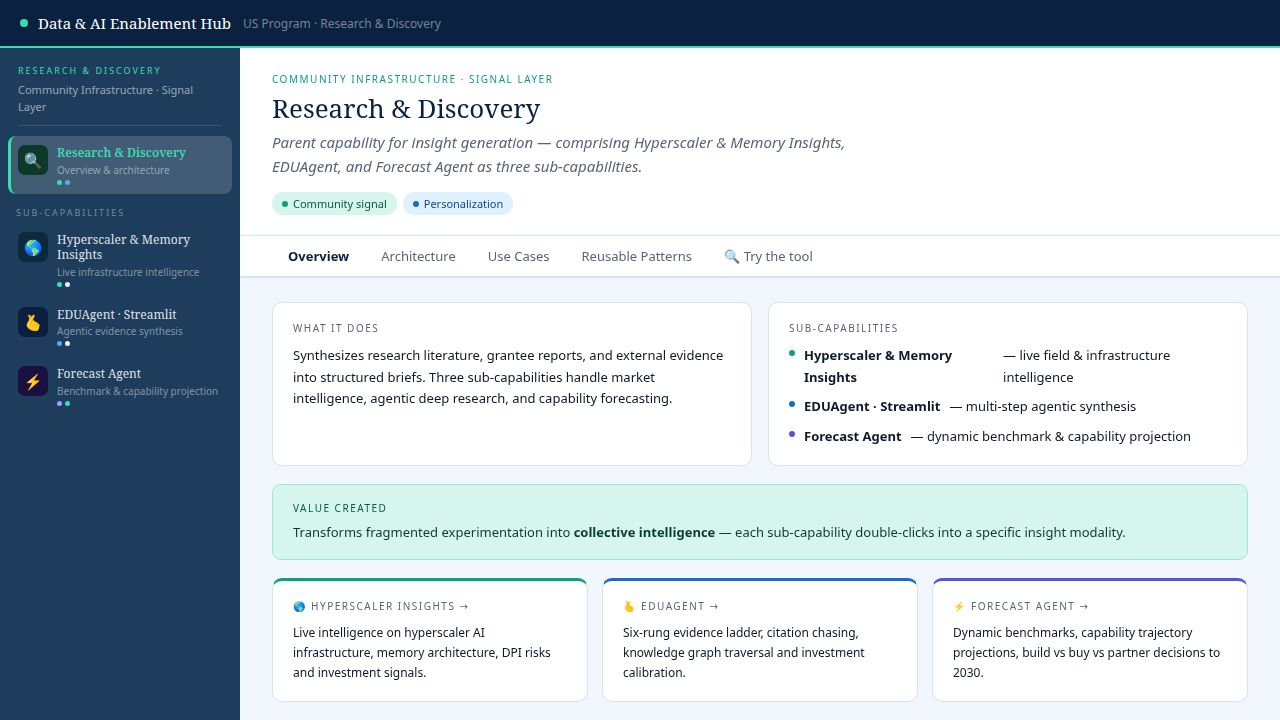
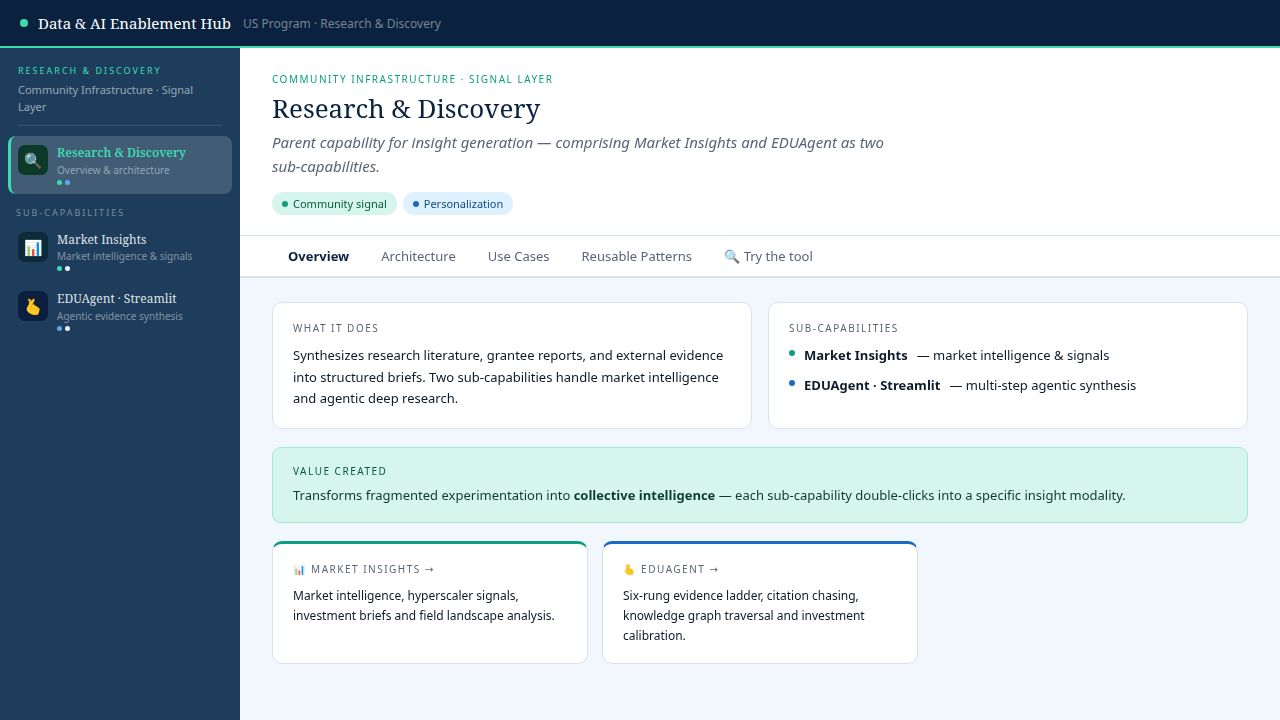
Remove DPI risk information from market insights and analysis
Remove DPI risk column from Live Dashboard scorecard, DPI status column from Memory Architecture table, and DPI lens option from AI Analysis form in index.html.

Replit-Commit-Author: Agent
Replit-Commit-Session-Id: fff7121f-16d3-4b25-8fbe-2d6d01af4116
Replit-Commit-Checkpoint-Type: full_checkpoint
Replit-Commit-Event-Id: 804c64db-7a72-406b-a0af-ac49f32cbdc9
Replit-Commit-Screenshot-Url: https://storage.googleapis.com/screenshot-production-us-central1/e2924662-ea0e-43be-a145-cdbc629ce00e/fff7121f-16d3-4b25-8fbe-2d6d01af4116/dot44Fe
Replit-Helium-Checkpoint-Created: true

diff --git a/artifacts/research-discovery/index.html b/artifacts/research-discovery/index.html
@@ -292,7 +292,7 @@ select:focus,textarea:focus,input:focus{border-color:var(--blue);background:var(
       <p style="color:#0B3D2E">Transforms fragmented experimentation into <strong>collective intelligence</strong> — each sub-capability double-clicks into a specific insight modality.</p>
     </div>
     <div class="g3">
-      <div class="card" style="cursor:pointer;border-top:3px solid #0B9E80" onclick="go('market')"><div class="card-lbl">&#128202; Market Insights →</div><p style="font-size:12px">Market intelligence, hyperscaler signals, DPI risks, investment briefs and field landscape analysis.</p></div>
+      <div class="card" style="cursor:pointer;border-top:3px solid #0B9E80" onclick="go('market')"><div class="card-lbl">&#128202; Market Insights →</div><p style="font-size:12px">Market intelligence, hyperscaler signals, investment briefs and field landscape analysis.</p></div>
       <div class="card" style="cursor:pointer;border-top:3px solid #1A6BC4" onclick="go('agents')"><div class="card-lbl">&#129776; EDUAgent →</div><p style="font-size:12px">Six-rung evidence ladder, citation chasing, knowledge graph traversal and investment calibration.</p></div>
     </div>
   </div>
@@ -367,11 +367,10 @@ select:focus,textarea:focus,input:focus{border-color:var(--blue);background:var(
   <div class="t-hdr">
     <div class="t-ey" style="color:#0B9E80">Research &amp; Discovery ↳ Sub-capability · Data &amp; AI Enablement Hub</div>
     <div class="t-title">Market Insights</div>
-    <div class="t-tag">Market intelligence across hyperscaler AI infrastructure, investment signals, DPI risks, and field landscape — powered by live data and AI analysis.</div>
+    <div class="t-tag">Market intelligence across hyperscaler AI infrastructure, investment signals, and field landscape — powered by live data and AI analysis.</div>
     <div class="t-chips">
       <div class="chip" style="background:#D6F5EC;color:#065C3A"><span style="width:6px;height:6px;border-radius:50%;background:#0B9E80;display:inline-block"></span>Market signals</div>
       <div class="chip" style="background:#DFF0FF;color:#0E4A8A"><span style="width:6px;height:6px;border-radius:50%;background:#1A6BC4;display:inline-block"></span>Investment intelligence</div>
-      <div class="chip" style="background:#EEECFF;color:#3A2FAA"><span style="width:6px;height:6px;border-radius:50%;background:#5E52D4;display:inline-block"></span>DPI-aligned</div>
     </div>
   </div>
   <div class="tnav">
@@ -400,12 +399,12 @@ select:focus,textarea:focus,input:focus{border-color:var(--blue);background:var(
     <div class="bench">
       <div class="bench-hdr"><div class="bench-hdr-ttl">Hyperscaler AI Infrastructure Scorecard — Q1 2026</div></div>
       <table style="width:100%;border-collapse:collapse;font-size:12px;table-layout:fixed">
-        <tr style="background:var(--nl)"><th style="padding:8px 12px;text-align:left;font-size:10px;font-weight:700;color:var(--navy)">Provider</th><th style="padding:8px 12px;text-align:left;font-size:10px;font-weight:700;color:var(--navy)">Memory strategy</th><th style="padding:8px 12px;text-align:left;font-size:10px;font-weight:700;color:var(--navy)">DPI risk</th><th style="padding:8px 12px;text-align:left;font-size:10px;font-weight:700;color:var(--navy)">Signal</th></tr>
-        <tr style="border-bottom:1px solid var(--border)"><td style="padding:8px 12px;font-weight:700;color:#0078D4">Microsoft</td><td style="padding:8px 12px;color:var(--muted)">Azure AI Memory via Cosmos DB. Copilot Studio cross-session context.</td><td style="padding:8px 12px"><span class="schip" style="background:#FCE8E8;color:#8B1A1A">High</span></td><td style="padding:8px 12px"><span class="schip" style="background:#FEF3D7;color:#7A4A0A">Monitor</span></td></tr>
-        <tr style="border-bottom:1px solid var(--border);background:#FAFAFA"><td style="padding:8px 12px;font-weight:700;color:#4285F4">Google</td><td style="padding:8px 12px;color:var(--muted)">Gemini 1M token context. Memory API in Workspace. Vertex AI persistent state.</td><td style="padding:8px 12px"><span class="schip" style="background:#FCE8E8;color:#8B1A1A">High</span></td><td style="padding:8px 12px"><span class="schip" style="background:#FEF3D7;color:#7A4A0A">Monitor</span></td></tr>
-        <tr style="border-bottom:1px solid var(--border)"><td style="padding:8px 12px;font-weight:700;color:#FF9900">AWS</td><td style="padding:8px 12px;color:var(--muted)">Bedrock Knowledge Bases + Agent memory. Skills Center portable identity pilot.</td><td style="padding:8px 12px"><span class="schip" style="background:#D6F5EC;color:#065C3A">Low</span></td><td style="padding:8px 12px"><span class="schip" style="background:#D6F5EC;color:#065C3A">Strategic partner</span></td></tr>
-        <tr style="border-bottom:1px solid var(--border);background:#FAFAFA"><td style="padding:8px 12px;font-weight:700;color:#0467DF">Meta / OSS</td><td style="padding:8px 12px;color:var(--muted)">Llama 3 + MemGPT. Open weights enable local memory deployment.</td><td style="padding:8px 12px"><span class="schip" style="background:#D6F5EC;color:#065C3A">Minimal</span></td><td style="padding:8px 12px"><span class="schip" style="background:#EEECFF;color:#3A2FAA">Invest signal</span></td></tr>
-        <tr><td style="padding:8px 12px;font-weight:700;color:#5E52D4">Anthropic</td><td style="padding:8px 12px;color:var(--muted)">Claude Projects persistent memory. MCP protocol for cross-system memory.</td><td style="padding:8px 12px"><span class="schip" style="background:#FEF3D7;color:#7A4A0A">Medium</span></td><td style="padding:8px 12px"><span class="schip" style="background:#D6F5EC;color:#065C3A">Active partner</span></td></tr>
+        <tr style="background:var(--nl)"><th style="padding:8px 12px;text-align:left;font-size:10px;font-weight:700;color:var(--navy)">Provider</th><th style="padding:8px 12px;text-align:left;font-size:10px;font-weight:700;color:var(--navy)">Memory strategy</th><th style="padding:8px 12px;text-align:left;font-size:10px;font-weight:700;color:var(--navy)">Signal</th></tr>
+        <tr style="border-bottom:1px solid var(--border)"><td style="padding:8px 12px;font-weight:700;color:#0078D4">Microsoft</td><td style="padding:8px 12px;color:var(--muted)">Azure AI Memory via Cosmos DB. Copilot Studio cross-session context.</td><td style="padding:8px 12px"><span class="schip" style="background:#FEF3D7;color:#7A4A0A">Monitor</span></td></tr>
+        <tr style="border-bottom:1px solid var(--border);background:#FAFAFA"><td style="padding:8px 12px;font-weight:700;color:#4285F4">Google</td><td style="padding:8px 12px;color:var(--muted)">Gemini 1M token context. Memory API in Workspace. Vertex AI persistent state.</td><td style="padding:8px 12px"><span class="schip" style="background:#FEF3D7;color:#7A4A0A">Monitor</span></td></tr>
+        <tr style="border-bottom:1px solid var(--border)"><td style="padding:8px 12px;font-weight:700;color:#FF9900">AWS</td><td style="padding:8px 12px;color:var(--muted)">Bedrock Knowledge Bases + Agent memory. Skills Center portable identity pilot.</td><td style="padding:8px 12px"><span class="schip" style="background:#D6F5EC;color:#065C3A">Strategic partner</span></td></tr>
+        <tr style="border-bottom:1px solid var(--border);background:#FAFAFA"><td style="padding:8px 12px;font-weight:700;color:#0467DF">Meta / OSS</td><td style="padding:8px 12px;color:var(--muted)">Llama 3 + MemGPT. Open weights enable local memory deployment.</td><td style="padding:8px 12px"><span class="schip" style="background:#EEECFF;color:#3A2FAA">Invest signal</span></td></tr>
+        <tr><td style="padding:8px 12px;font-weight:700;color:#5E52D4">Anthropic</td><td style="padding:8px 12px;color:var(--muted)">Claude Projects persistent memory. MCP protocol for cross-system memory.</td><td style="padding:8px 12px"><span class="schip" style="background:#D6F5EC;color:#065C3A">Active partner</span></td></tr>
       </table>
     </div>
     <div class="ins-g">
@@ -418,12 +417,12 @@ select:focus,textarea:focus,input:focus{border-color:var(--blue);background:var(
   <div class="tc">
     <div style="font-size:10px;color:var(--muted);font-weight:700;text-transform:uppercase;letter-spacing:1.5px;margin-bottom:12px">Five-layer global memory stack — AWS Build-a-Thon (March 2026)</div>
     <table class="dtbl">
-      <tr><th>Layer</th><th>Name</th><th>Stores</th><th>Controls</th><th>DPI status</th></tr>
-      <tr><td><span class="schip" style="background:#D6F5EC;color:#065C3A">L1</span></td><td><strong>Session memory</strong></td><td>Current conversation, working state</td><td>System</td><td><span class="schip" style="background:#FEF3D7;color:#7A4A0A">Proprietary</span></td></tr>
-      <tr><td><span class="schip" style="background:#DFF0FF;color:#0E4A8A">L2</span></td><td><strong>Personal memory</strong></td><td>User preferences, learning history</td><td>User (ideally)</td><td><span class="schip" style="background:#FCE8E8;color:#8B1A1A">Lock-in risk</span></td></tr>
-      <tr><td><span class="schip" style="background:#EEECFF;color:#3A2FAA">L3</span></td><td><strong>Institutional memory</strong></td><td>Org knowledge, past decisions, grantee history</td><td>Institution</td><td><span class="schip" style="background:#D6F5EC;color:#065C3A">Foundation-owned</span></td></tr>
-      <tr><td><span class="schip" style="background:#FEF3D7;color:#7A4A0A">L4</span></td><td><strong>Community memory</strong></td><td>Cross-institutional learning, field signals</td><td>Collective</td><td><span class="schip" style="background:#D6F5EC;color:#065C3A">DPI-aligned</span></td></tr>
-      <tr><td><span class="schip" style="background:#FCE8E8;color:#8B1A1A">L5</span></td><td><strong>Global portable memory</strong></td><td>Learner-owned credentials, skills, preference AI</td><td>Learner</td><td><span class="schip" style="background:#D6F5EC;color:#065C3A">Open standard</span></td></tr>
+      <tr><th>Layer</th><th>Name</th><th>Stores</th><th>Controls</th></tr>
+      <tr><td><span class="schip" style="background:#D6F5EC;color:#065C3A">L1</span></td><td><strong>Session memory</strong></td><td>Current conversation, working state</td><td>System</td></tr>
+      <tr><td><span class="schip" style="background:#DFF0FF;color:#0E4A8A">L2</span></td><td><strong>Personal memory</strong></td><td>User preferences, learning history</td><td>User (ideally)</td></tr>
+      <tr><td><span class="schip" style="background:#EEECFF;color:#3A2FAA">L3</span></td><td><strong>Institutional memory</strong></td><td>Org knowledge, past decisions, grantee history</td><td>Institution</td></tr>
+      <tr><td><span class="schip" style="background:#FEF3D7;color:#7A4A0A">L4</span></td><td><strong>Community memory</strong></td><td>Cross-institutional learning, field signals</td><td>Collective</td></tr>
+      <tr><td><span class="schip" style="background:#FCE8E8;color:#8B1A1A">L5</span></td><td><strong>Global portable memory</strong></td><td>Learner-owned credentials, skills, preference AI</td><td>Learner</td></tr>
     </table>
     <div class="osb" style="margin-top:16px">
       <div class="osb-ttl">Hub positioning across the stack <span class="osb-tag">Strategic framing</span></div>
@@ -442,7 +441,7 @@ select:focus,textarea:focus,input:focus{border-color:var(--blue);background:var(
         <div><div class="fl2">Domain or sector</div><textarea id="mkt-domain" rows="2" placeholder="e.g. AI tutoring platforms in K-12, hyperscaler education offerings"></textarea></div>
         <div><div class="fl2">Scan type</div><select id="mkt-type"><option value="landscape">Market landscape</option><option value="hyperscaler">Hyperscaler analysis</option><option value="concentration">Concentration &amp; sovereignty risk</option><option value="emerging">Emerging players</option><option value="investment">Investment signal brief</option></select></div>
         <div><div class="fl2">Geographic focus</div><select id="mkt-geo"><option value="us">United States</option><option value="lmic">LMIC contexts</option><option value="global">Global</option><option value="both">US + LMIC comparison</option></select></div>
-        <div><div class="fl2">Foundation lens</div><select id="mkt-lens"><option value="equity">Equity &amp; access</option><option value="dpi">Digital public infrastructure</option><option value="evidence">Evidence &amp; trust</option><option value="scale">Scale &amp; sustainability</option></select></div>
+        <div><div class="fl2">Foundation lens</div><select id="mkt-lens"><option value="equity">Equity &amp; access</option><option value="evidence">Evidence &amp; trust</option><option value="scale">Scale &amp; sustainability</option></select></div>
         <div><div class="fl2">Specific question <span style="font-weight:400;color:var(--muted)">(optional)</span></div><textarea id="mkt-q" rows="2" placeholder="e.g. Data sovereignty risks for grantees on Google Workspace EDU?"></textarea></div>
         <button class="run" style="background:#0B9E80" onclick="runMarket()">&#9654; Generate market intelligence</button>
       </div>